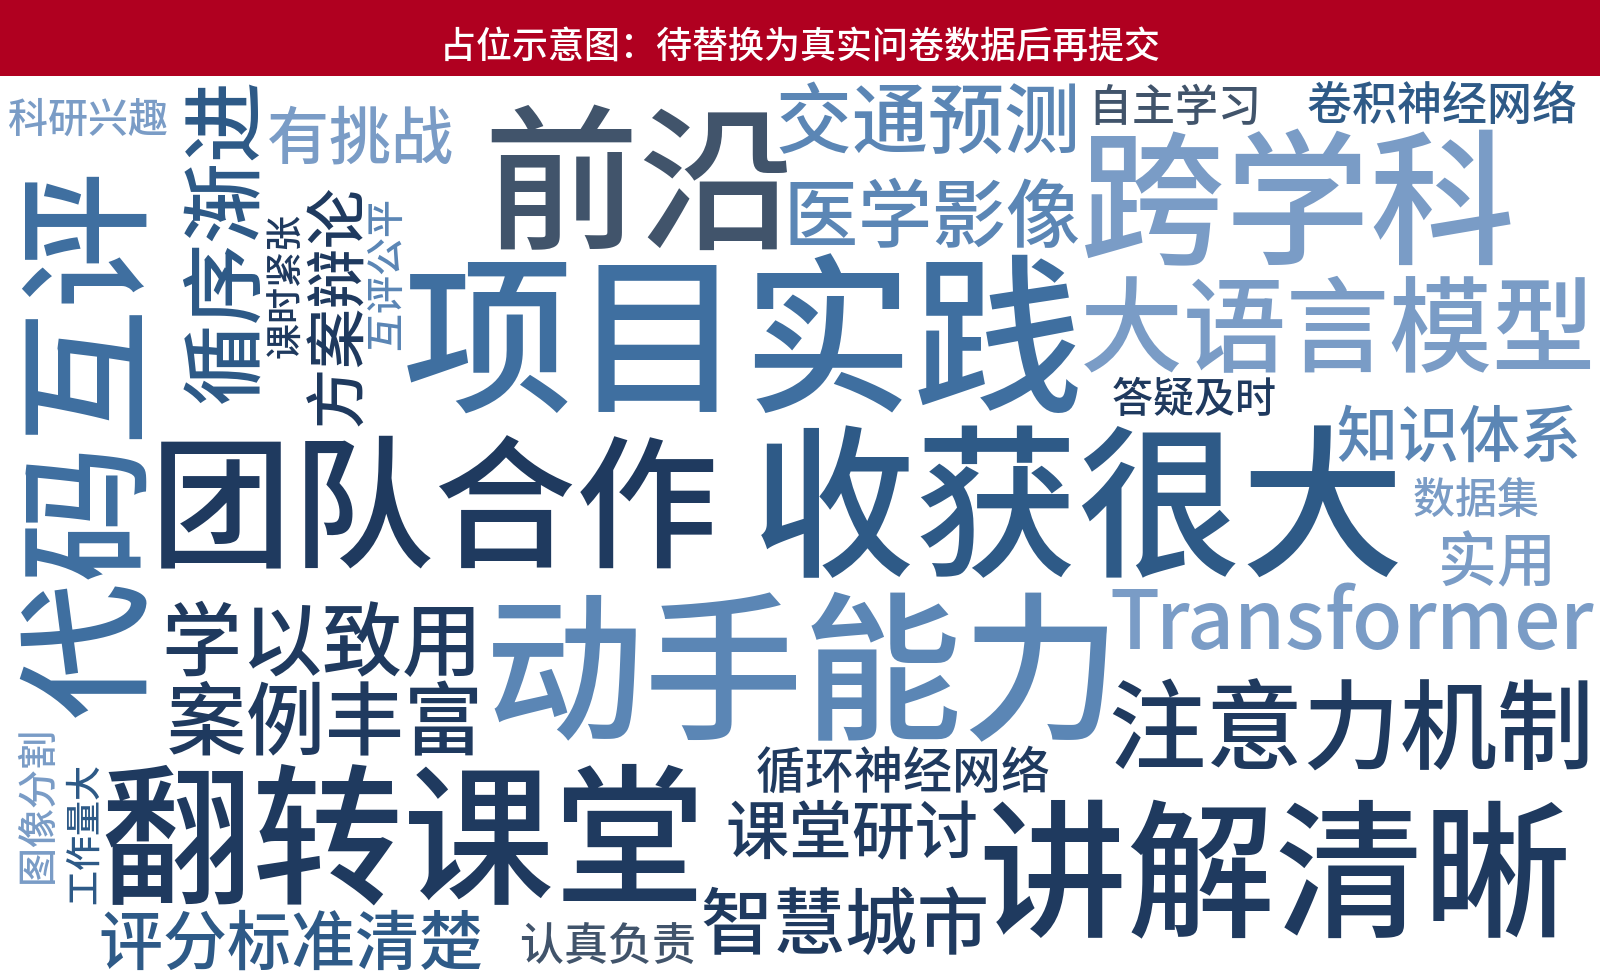
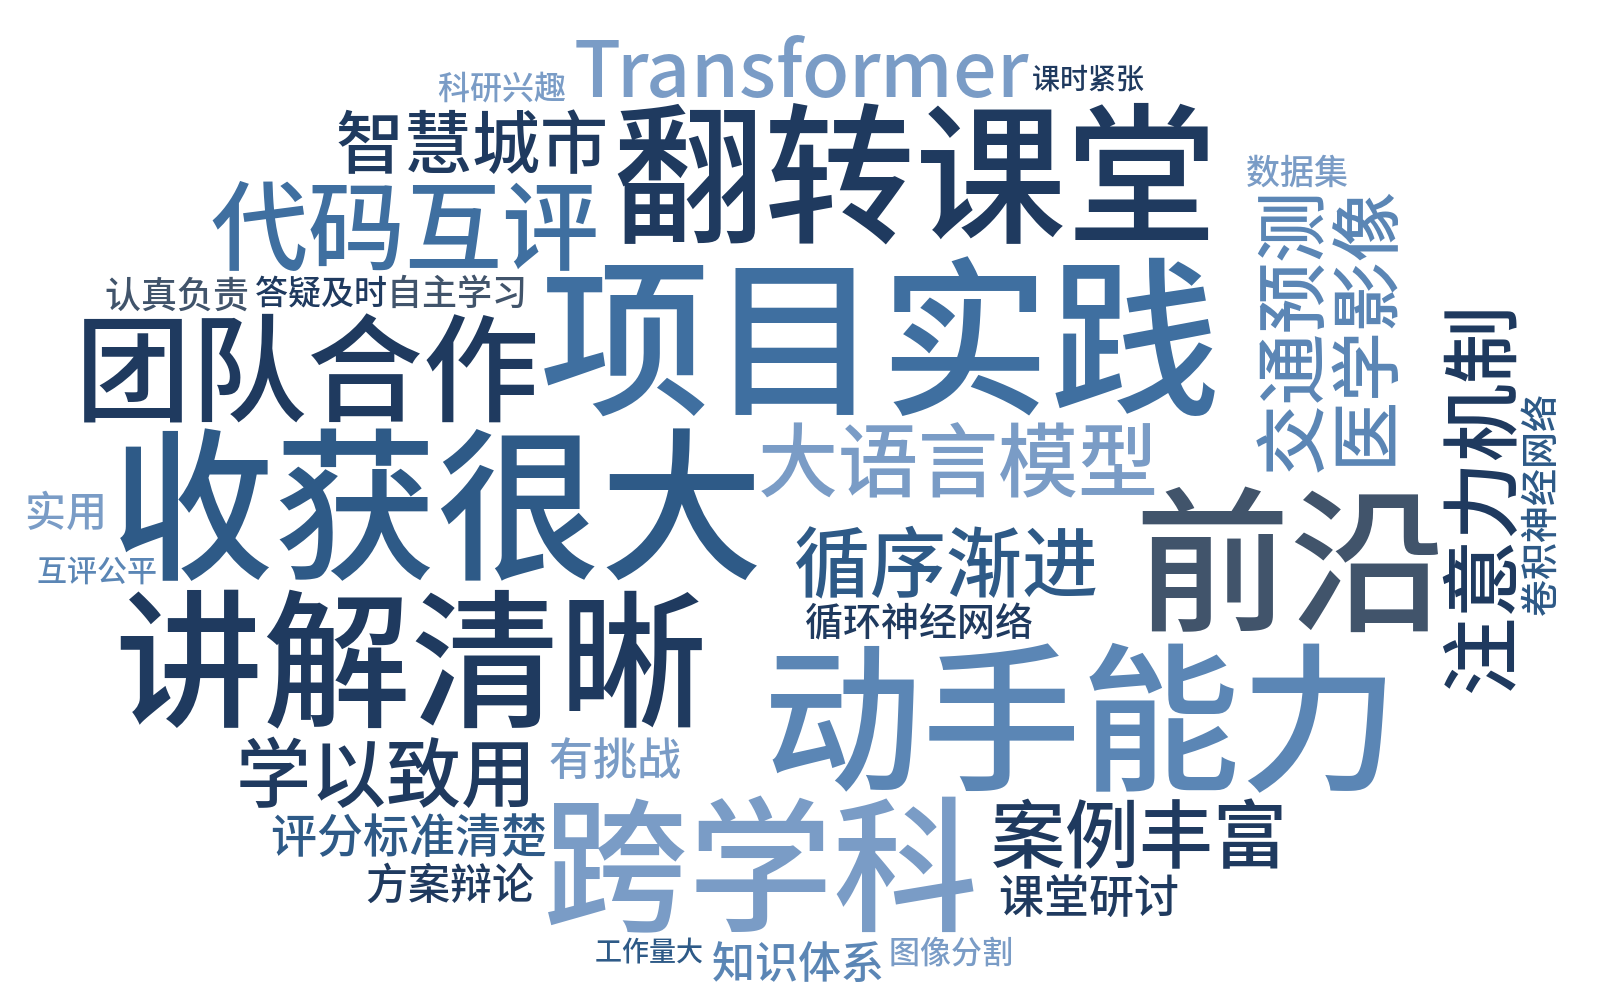
词云改为椭圆形，去掉横幅

diff --git a/结题验收报告配图/wordcloud_fig.py b/结题验收报告配图/wordcloud_fig.py
@@ -28,23 +28,18 @@ def placeholder_freqs():
 freqs, is_placeholder = (freqs_from_answers("answers.txt") if os.path.exists("answers.txt")
                          else placeholder_freqs())
 
+import numpy as np
+W, H = 1600, 1000
+yy, xx = np.ogrid[:H, :W]
+ellipse = ((xx - W/2) / (W/2 - 10))**2 + ((yy - H/2) / (H/2 - 10))**2 <= 1
+MASK = np.where(ellipse, 0, 255).astype(np.uint8)
+
 def color(*a, **k): return random.choice(PALETTE)
 random.seed(7)
-wc = WordCloud(font_path=FONT, width=1600, height=900, background_color="white",
+wc = WordCloud(font_path=FONT, mask=MASK, background_color="white",
                max_words=80, prefer_horizontal=0.95, margin=8, relative_scaling=0.35, max_font_size=170, min_font_size=22,
                color_func=color, random_state=7).generate_from_frequencies(freqs)
 img = wc.to_image().convert("RGB")
-
-if is_placeholder:  # 醒目标注，防止误用
-    band = 76
-    canvas = Image.new("RGB", (img.width, img.height + band), "#B00020")
-    canvas.paste(img, (0, band))
-    d = ImageDraw.Draw(canvas)
-    f = ImageFont.truetype(FONT, 36)
-    msg = "占位示意图：待替换为真实问卷数据后再提交"
-    w = d.textlength(msg, font=f)
-    d.text(((img.width - w) / 2, 16), msg, font=f, fill="white")
-    img = canvas
 
 out = "学生评价词云_占位.png" if is_placeholder else "学生评价词云.png"
 img.save(out); print("saved", out)

diff --git a/结题验收报告配图/README.md b/结题验收报告配图/README.md
@@ -3,7 +3,7 @@
 | 文件 | 说明 |
 |---|---|
 | 图1_PBL驱动+翻转课堂双核教学模式.png | 第2项 主要改革成果（与年检报告图2相同） |
-| 学生评价词云_占位.png | 第2项 实践效果。**占位示意图，图上有红色标注，须替换为真实问卷数据后再提交** |
+| 学生评价词云_占位.png | 第2项 实践效果。占位用，须换成真实问卷生成的词云后再提交 |
 | wordcloud_fig.py | 词云生成脚本 |
 
 ## 用真实数据替换词云
